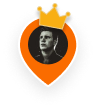
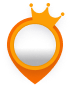
ajout des pins personnalisés

diff --git a/app/javascript/controllers/map_controller.js b/app/javascript/controllers/map_controller.js
@@ -1,42 +1,69 @@
-import { Controller } from "@hotwired/stimulus"
+import { Controller } from "@hotwired/stimulus";
 
 export default class extends Controller {
   static values = {
     markers: { type: Array, default: [] },
-    iconPath: { type: String, default: "" }
-  }
+    iconPath: { type: String, default: "" },
+    shadowPath: { type: String, default: "" },
+  };
 
   connect() {
-    if (!window.L) return
-    this.map = window.L.map(this.element)
-
-    this.icon = window.L.icon({
-      iconUrl: this.iconPathValue,
-      iconSize: [60, 70]
-    })
+    if (!window.L) return;
+    this.map = window.L.map(this.element);
 
     window.L.tileLayer("https://tile.openstreetmap.org/{z}/{x}/{y}.png", {
-      attribution: '&copy; OpenStreetMap contributors'
-    }).addTo(this.map)
+      attribution: "&copy; OpenStreetMap contributors",
+    }).addTo(this.map);
 
-    this.addMarkers()
+    this.addMarkers();
 
     if (this.markersValue.length > 0) {
-      const bounds = window.L.latLngBounds(this.markersValue.map((marker) => [marker.lat, marker.lng]))
-      this.map.fitBounds(bounds, { padding: [32, 32] })
+      const bounds = window.L.latLngBounds(
+        this.markersValue.map((marker) => [marker.lat, marker.lng]),
+      );
+      this.map.fitBounds(bounds, { padding: [32, 32] });
     } else {
-      this.map.setView([50.63, 3.06], 13)
+      this.map.setView([50.63, 3.06], 13);
     }
 
-    requestAnimationFrame(() => this.map.invalidateSize())
+    requestAnimationFrame(() => this.map.invalidateSize());
+  }
+
+  buildIcon(marker) {
+    const avatarHtml = marker.top_user_image
+      ? `<img src="${marker.top_user_image}" class="court-pin__avatar" />`
+      : `<div class="court-pin__avatar court-pin__avatar--placeholder"><i class="fa-solid fa-user"></i></div>`;
+
+    const shadowHtml = this.shadowPathValue
+      ? `<img src="${this.shadowPathValue}" class="court-pin__shadow" />`
+      : "";
+
+    return window.L.divIcon({
+      className: "",
+      html: `
+        <div class="court-pin">
+          ${shadowHtml}
+          <div class="court-pin__marker">
+            <img src="${this.iconPathValue}" class="court-pin__frame" />
+            ${avatarHtml}
+          </div>
+        </div>
+      `,
+      // Container 98×91 : pin (75×89) à [0,0] + shadow (65×64) à [33,27]
+      // Ancre = bas-centre du pin = [37, 89] dans le container
+      iconSize: [98, 91],
+      iconAnchor: [37, 89],
+      popupAnchor: [0, -89],
+    });
   }
 
   addMarkers() {
     this.markersValue.forEach((marker) => {
-      window.L.marker([marker.lat, marker.lng], { icon: this.icon })
+      window.L.marker([marker.lat, marker.lng], {
+        icon: this.buildIcon(marker),
+      })
         .addTo(this.map)
-        .bindPopup(marker.info || "Terrain")
-    })
+        .bindPopup(marker.info || "Terrain");
+    });
   }
-
 }

diff --git a/app/assets/tailwind/application.css b/app/assets/tailwind/application.css
@@ -2,7 +2,7 @@
 @source not "./daisyui{,*}.mjs";
 @plugin "./daisyui.mjs";
 /* Optional for custom themes – Docs: https://daisyui.com/docs/themes/#how-to-add-a-new-custom-theme */
-@plugin "./daisyui-theme.mjs"{
+@plugin "./daisyui-theme.mjs" {
   /* custom theme here */
   name: "dark";
   default: false;
@@ -36,4 +36,60 @@
   --border: 1px;
   --depth: 0;
   --noise: 0;
+}
+
+/* Leaflet custom pin — container 98×91 (pin 75×89 + shadow 65×64) */
+.court-pin {
+  position: relative;
+  width: 98px;
+  height: 91px;
+}
+
+/* Shadow : décalée de [33, 27] pour aligner shadowAnchor[4,62] sur iconAnchor[37,89] */
+.court-pin__shadow {
+  position: absolute;
+  left: 31px;
+  top: 26px;
+  width: 65px;
+  height: 64px;
+  z-index: 0;
+  pointer-events: none;
+}
+
+/* Marker pin : calé en haut-gauche du container */
+.court-pin__marker {
+  position: absolute;
+  left: 0;
+  top: 0;
+  width: 75px;
+  height: 89px;
+  z-index: 1;
+}
+
+.court-pin__frame {
+  position: absolute;
+  inset: 0;
+  width: 100%;
+  height: 100%;
+  pointer-events: none;
+}
+
+.court-pin__avatar {
+  position: absolute;
+  width: 42px;
+  height: 42px;
+  border-radius: 50%;
+  object-fit: cover;
+  top: 24px;
+  left: 47%;
+  transform: translateX(-50%);
+}
+
+.court-pin__avatar--placeholder {
+  background: #11111d;
+  display: flex;
+  align-items: center;
+  justify-content: center;
+  color: #6b7280;
+  font-size: 16px;
 }

diff --git a/app/controllers/maps_controller.rb b/app/controllers/maps_controller.rb
@@ -1,10 +1,22 @@
 class MapsController < ApplicationController
   def index
+    victory_counts = Victory.group(:court_id, :user_id).count
+    top_user_ids = victory_counts
+      .group_by { |(court_id, _), _| court_id }
+      .transform_values { |entries| entries.max_by { |_, count| count }&.first&.last }
+
+    top_users = User.where(id: top_user_ids.values.compact)
+                    .index_by(&:id)
+
     @markers = Court.where.not(lat: nil, long: nil).map do |court|
+      top_user = top_users[top_user_ids[court.id]]
+      top_user_image = top_user&.profile_picture&.attached? ? url_for(top_user.profile_picture) : nil
+
       {
         lat: court.lat,
         lng: court.long,
-        info: court.name
+        info: court.name,
+        top_user_image: top_user_image
       }
     end
   end
